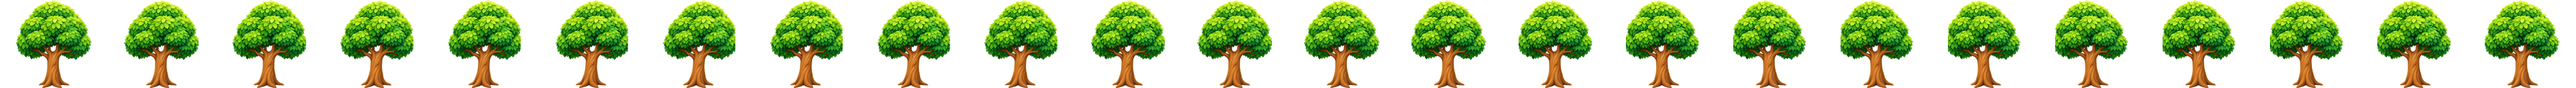
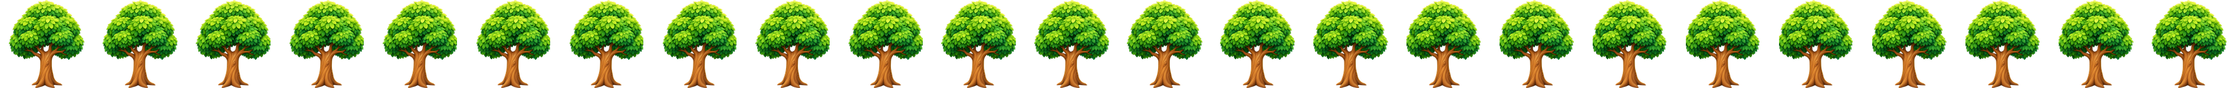
feat(worldmap proof): 船可上下左右控制移動 + 樹搖幅減半 + 水波調弱
- 渡輪加方向鍵盤(方向鍵/WASD)+螢幕方向鍵控制,連續移動+邊界夾住+往左自動翻面
- 樹分幀搖幅 0.07→0.035
- 水面掃光/泡沫/波光透明度全降

diff --git a/worldmap-proof.html b/worldmap-proof.html
@@ -19,12 +19,12 @@
   .sprite{ position:absolute; background-repeat:no-repeat; image-rendering:auto;
     transform-origin:bottom center; will-change:background-position; }
 
-  /* 樹（182x150，24 幀） */
-  .tree{ width:182px; height:150px;
-    background-image:url('assets/images/worldmap_proof/tree_sway_sheet.png?v=1');
+  /* 樹（158x150，24 幀，搖幅調小） */
+  .tree{ width:158px; height:150px;
+    background-image:url('assets/images/worldmap_proof/tree_sway_sheet.png?v=2');
     background-size:auto 150px;
-    animation:treePlay 2.8s steps(24) infinite; }
-  @keyframes treePlay{ to{ background-position-x:-4368px; } }
+    animation:treePlay 3.4s steps(24) infinite; }
+  @keyframes treePlay{ to{ background-position-x:-3792px; } }
 
   /* 船（201x200，24 幀） */
   .ferry{ width:201px; height:200px;
@@ -34,24 +34,33 @@
   @keyframes ferryPlay{ to{ background-position-x:-4824px; } }
 
   /* 水面光：斜向掃光 + 海岸泡沫脈動 */
-  .shimmer{ position:absolute; inset:0; pointer-events:none; mix-blend-mode:screen; opacity:.5;
-    background:linear-gradient(115deg, transparent 30%, rgba(190,240,255,.35) 47%, rgba(255,255,255,.5) 50%, rgba(190,240,255,.35) 53%, transparent 70%);
-    background-size:260% 260%; animation:sweep 6s linear infinite; }
+  .shimmer{ position:absolute; inset:0; pointer-events:none; mix-blend-mode:screen; opacity:.22;
+    background:linear-gradient(115deg, transparent 36%, rgba(190,240,255,.2) 48%, rgba(255,255,255,.28) 50%, rgba(190,240,255,.2) 52%, transparent 64%);
+    background-size:260% 260%; animation:sweep 8s linear infinite; }
   @keyframes sweep{ 0%{ background-position:120% 0; } 100%{ background-position:-60% 0; } }
   .foam{ position:absolute; left:50%; top:54%; width:430px; height:300px; transform:translate(-50%,-50%);
     border-radius:50%; pointer-events:none;
-    box-shadow:0 0 0 3px rgba(255,255,255,.22), 0 0 26px 10px rgba(255,255,255,.18) inset;
-    animation:foam 3.6s ease-in-out infinite; }
-  @keyframes foam{ 0%,100%{ transform:translate(-50%,-50%) scale(1); opacity:.5; } 50%{ transform:translate(-50%,-50%) scale(1.04); opacity:.8; } }
-  /* 海面點點波光 */
-  .glint{ position:absolute; width:8px; height:8px; border-radius:50%; background:rgba(255,255,255,.85);
-    pointer-events:none; animation:glint 2.6s ease-in-out infinite; filter:blur(.4px); }
-  @keyframes glint{ 0%,100%{ opacity:0; transform:scale(.4); } 50%{ opacity:.9; transform:scale(1); } }
+    box-shadow:0 0 0 2px rgba(255,255,255,.1), 0 0 18px 6px rgba(255,255,255,.08) inset;
+    animation:foam 4.6s ease-in-out infinite; }
+  @keyframes foam{ 0%,100%{ transform:translate(-50%,-50%) scale(1); opacity:.28; } 50%{ transform:translate(-50%,-50%) scale(1.03); opacity:.45; } }
+  /* 海面點點波光（弱） */
+  .glint{ position:absolute; width:6px; height:6px; border-radius:50%; background:rgba(255,255,255,.6);
+    pointer-events:none; animation:glint 3.2s ease-in-out infinite; filter:blur(.5px); }
+  @keyframes glint{ 0%,100%{ opacity:0; transform:scale(.4); } 50%{ opacity:.5; transform:scale(.9); } }
+
+  /* 方向鍵 */
+  #dpad{ display:grid; grid-template-columns:repeat(3,52px); grid-template-rows:repeat(3,52px);
+    gap:6px; justify-content:center; }
+  .db{ border:none; border-radius:12px; background:rgba(255,255,255,.12); color:#cfe0ff; font-size:20px;
+    cursor:pointer; -webkit-user-select:none; user-select:none; touch-action:none;
+    box-shadow:0 2px 8px rgba(0,0,0,.3); transition:background .1s, transform .06s; }
+  .db:active{ background:var(--blue,#00D4FF); color:#062033; transform:scale(.92); }
+  .db.up{ grid-area:1/2; } .db.left{ grid-area:2/1; } .db.down{ grid-area:3/2; } .db.right{ grid-area:2/3; }
 </style>
 </head>
 <body>
 <div id="wrap">
-  <div class="cap">🏝 分層動畫 proof：底圖靜態，樹/船/水都是獨立可動圖層（樹搖、船晃、水波光）</div>
+  <div class="cap">🏝 分層動畫 proof — 用下方方向鍵（或鍵盤方向鍵/WASD）開船上下左右移動 ⛵</div>
   <div id="fit">
     <div id="stage">
       <div class="shimmer"></div>
@@ -65,9 +74,16 @@
       <div class="sprite tree" style="left:60px;  top:62px;  transform:scale(.82)"></div>
       <div class="sprite tree" style="left:476px; top:54px;  transform:scale(.9); animation-delay:-1.0s"></div>
       <div class="sprite tree" style="left:250px; top:150px; transform:scale(.62); animation-delay:-.5s"></div>
-      <!-- 船：碼頭末端水面 -->
-      <div class="sprite ferry" style="left:300px; top:258px; transform:scale(.92)"></div>
+      <!-- 船：可由玩家控制移動 -->
+      <div class="sprite ferry" id="ferry"></div>
     </div>
+  </div>
+  <!-- 方向鍵 -->
+  <div id="dpad">
+    <button class="db up"    data-d="up">▲</button>
+    <button class="db left"  data-d="left">◀</button>
+    <button class="db down"  data-d="down">▼</button>
+    <button class="db right" data-d="right">▶</button>
   </div>
 </div>
 <script>
@@ -82,6 +98,43 @@
     fit.style.width=(BW*s)+'px'; fit.style.height=(BH*s)+'px';
   }
   window.addEventListener('resize',resize); resize();
+
+  // ── 船控制：上下左右移動 ──
+  const ferry=document.getElementById('ferry');
+  const SC=0.92, FW=201, FH=200, SPEED=3.4;
+  let fx=300, fy=258, facing=1;
+  const MINX=-30, MAXX=BW-160, MINY=10, MAXY=BH-200;   // 720x480 內活動範圍
+  const held={up:false,down:false,left:false,right:false};
+  function apply(){ ferry.style.left=fx+'px'; ferry.style.top=fy+'px';
+    ferry.style.transform='scale('+(facing*SC)+','+SC+')'; }
+  apply();
+  function tick(){
+    let dx=(held.right?1:0)-(held.left?1:0), dy=(held.down?1:0)-(held.up?1:0);
+    if(dx||dy){
+      if(dx&&dy){ dx*=0.7071; dy*=0.7071; }     // 斜向不加速
+      fx=Math.max(MINX,Math.min(MAXX, fx+dx*SPEED));
+      fy=Math.max(MINY,Math.min(MAXY, fy+dy*SPEED));
+      if(dx<0) facing=-1; else if(dx>0) facing=1;
+      apply();
+    }
+    requestAnimationFrame(tick);
+  }
+  requestAnimationFrame(tick);
+
+  // 鍵盤
+  const KEY={ArrowUp:'up',ArrowDown:'down',ArrowLeft:'left',ArrowRight:'right',w:'up',s:'down',a:'left',d:'right',W:'up',S:'down',A:'left',D:'right'};
+  addEventListener('keydown',e=>{ const k=KEY[e.key]; if(k){ held[k]=true; e.preventDefault(); } });
+  addEventListener('keyup',  e=>{ const k=KEY[e.key]; if(k){ held[k]=false; e.preventDefault(); } });
+  // 螢幕方向鍵（按住持續）
+  document.querySelectorAll('.db').forEach(btn=>{
+    const d=btn.dataset.d;
+    const on =e=>{ e.preventDefault(); held[d]=true; };
+    const off=e=>{ e.preventDefault(); held[d]=false; };
+    btn.addEventListener('pointerdown',on);
+    btn.addEventListener('pointerup',off);
+    btn.addEventListener('pointerleave',off);
+    btn.addEventListener('pointercancel',off);
+  });
 </script>
 </body>
 </html>
